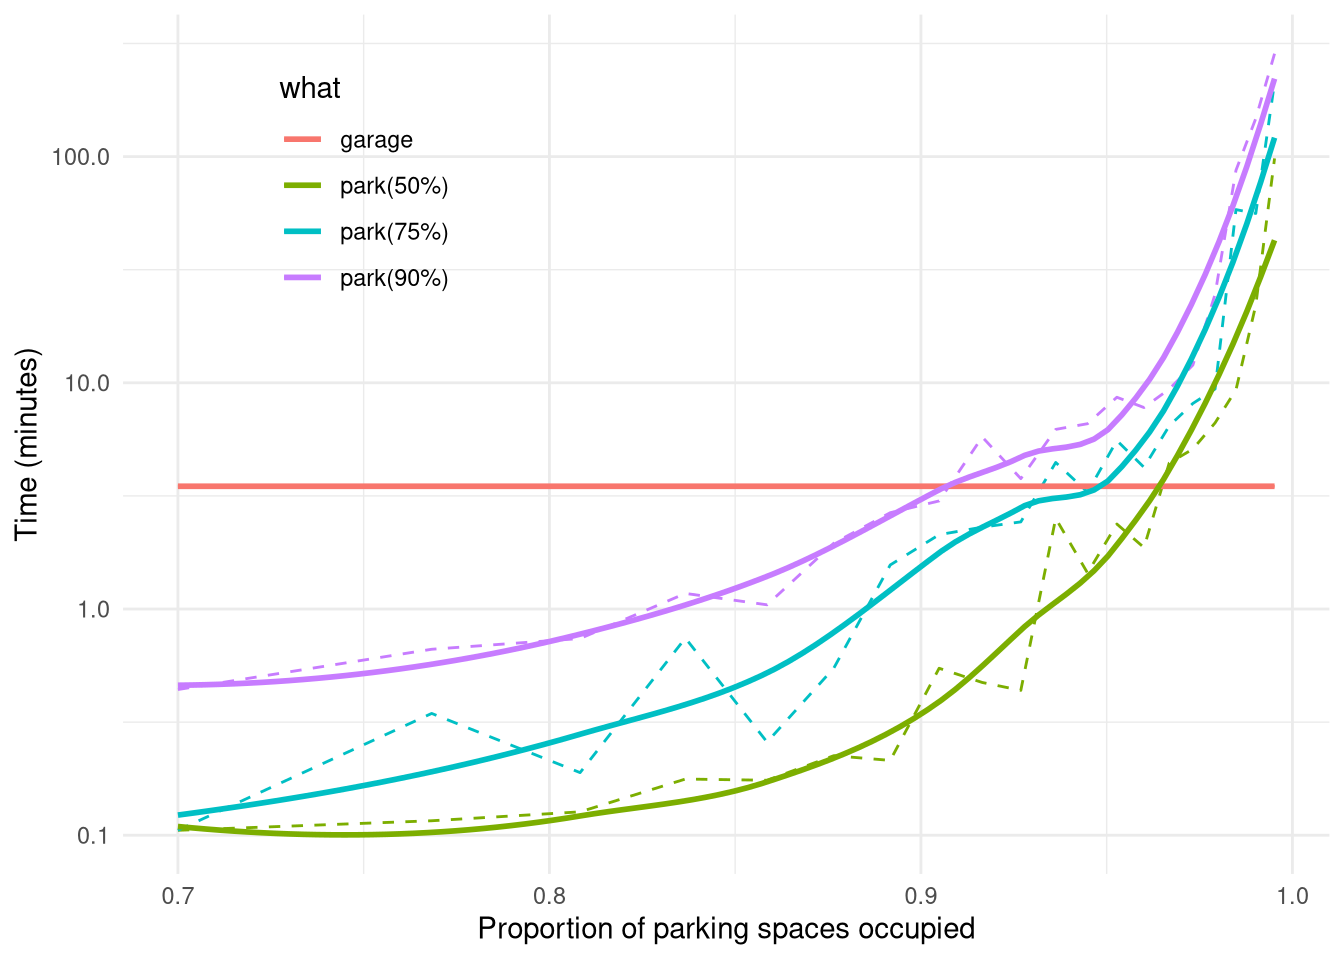
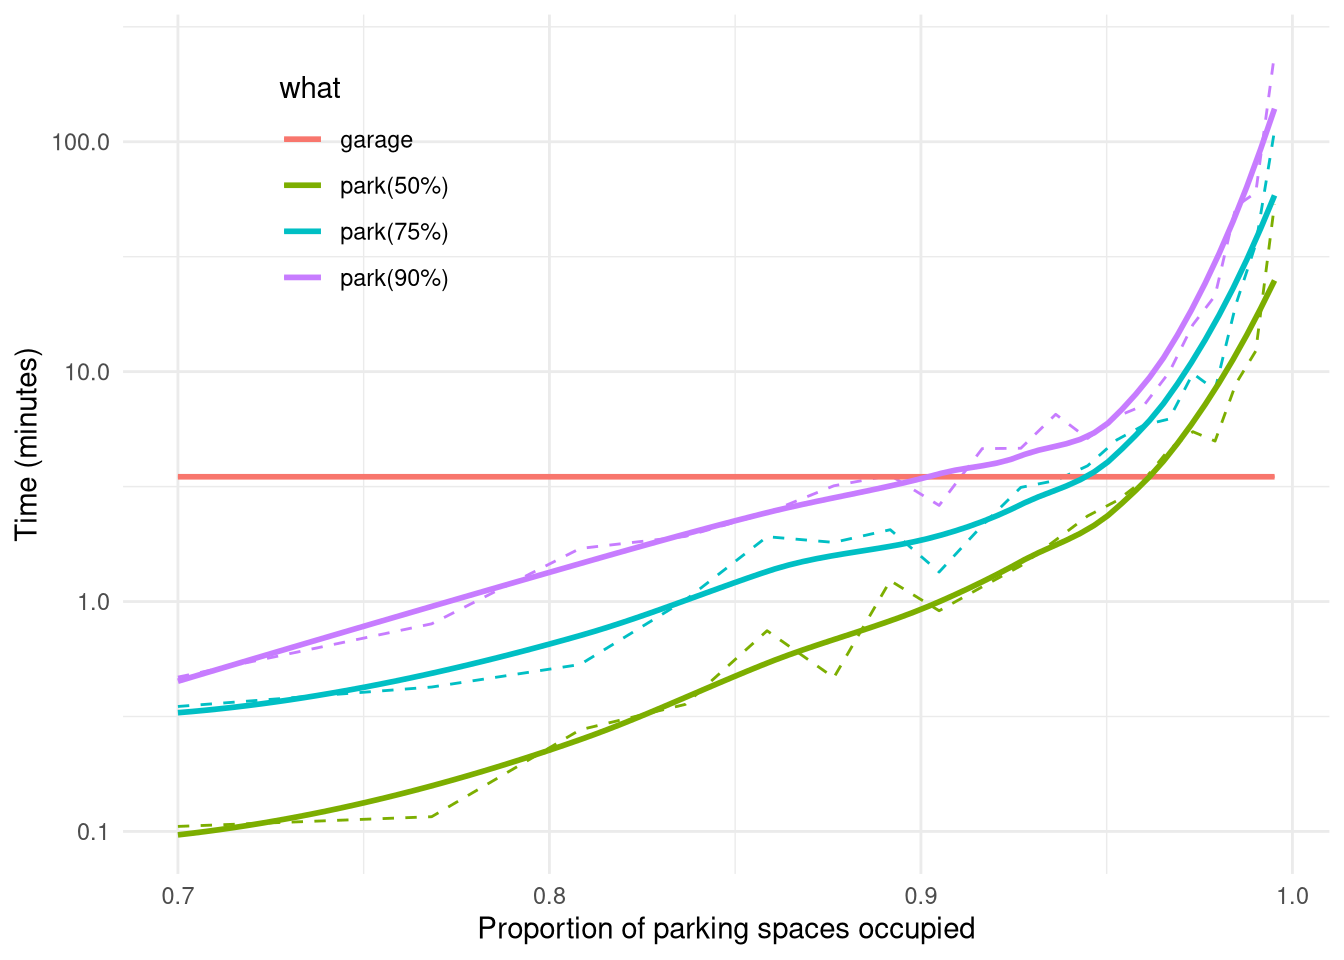
update readme

diff --git a/README.md b/README.md
@@ -7,21 +7,25 @@ coverage](https://codecov.io/gh/UrbanAnalyst/superblock/graph/badge.svg)](https:
 # superblock
 
 An R package to analyse potential
-[superblocks](https://doi.org/10.1016%2Fj.cities.2024.105609).
+[superblocks](https://doi.org/10.1016%2Fj.cities.2024.105609). The
+following example demonstrates the main functionality.
 
 ## Example
 
 An example of the “Hansaviertel” of [Münster,
-Germany](https://www.openstreetmap.org/#map=17/51.955569/7.639795).
-First load the library and extract the necessary data from Open Street
-Map (OSM):
+Germany](https://www.openstreetmap.org/#map=17/51.955569/7.639795). Note
+that this entire document is dynamically-generated from the four lines
+of code shown immediately below. All numerical values described in the
+text are then taken from the actual data as downloaded from Open Street
+Map (OSM) at the time the document was generated.
+
+The first steps are to load the library and extract the necessary data:
 
 ``` r
 library (superblock)
 bbox <- c (7.63099, 51.95048, 7.66402, 51.96142)
 hw_names <- c ("Bremer Straße", "Bremer Platz", "Wolbecker Straße", "Hansaring")
-outer <- c (T, F, T, T)
-osmdat <- sb_osmdata_extract (bbox, hw_names, outer = outer)
+osmdat <- sb_osmdata_extract (bbox, hw_names)
 ```
 
 The `sb_summary()` function then summarises change in publicly
@@ -34,10 +38,10 @@ sb_summary (osmdat)
 #> • Proportion open space: 7.36%
 #> • Proportion roads: 15.7%, of which:
 #>   • 32.5% is for car roads
-#>   • 39.9% is for parked cars, and
-#>   • 27.6% remains for everybody else.
+#>   • 39.7% is for parked cars, and
+#>   • 27.7% remains for everybody else.
 #> • There are street parking spaces for 8.6% of all residents.
-#> • So 8.6% of residents occupy 39.9% of all space
+#> • So 8.6% of residents occupy 39.7% of all space
 #> 
 #> • Total proportion of public space: 11.7
 #> • Total proportion of public space as superblock: 23.1
@@ -48,18 +52,29 @@ sb_summary (osmdat)
 
 ### Analysis of parking times
 
-There is also a function to estimate how long it takes to find car park
-as a function of the proportion of available car parking spaces. The
-results are compared to equivalent times to drive to the nearest large
-parking facility (“garage” in the graph below), to park a car, and then
-walk back to the place of residence.
+There are two additional functions to estimate how long people spend
+driving around searching for car parking spaces, and how far they
+actually drive.
+
+#### Individual times search for parking spaces
+
+The first function estimates the time taken on average for each resident
+of the superblock to find a car parking space, as a function of the
+proportion of available car parking spaces. Results are based on
+simulations using actual data for the specified superblock to estimate
+how long it takes on average to fill all of the remaining parking
+spaces.
+
+The results are compared to equivalent times to drive to the nearest
+large parking facility (“garage” in the graph below), to park a car, and
+then walk back to the place of residence.
+
+<img src="man/figures/README-parking-times-1.png" width="672" />
 
 ``` r
 times <- sb_parking_times (osmdat)
 plot (times)
 ```
-
-<img src="man/figures/README-parking-times-1.png" width="672" />
 
 The results shows how long it takes to find a parking space for an
 average attempt (“park(50%)”), for one out of every four attempts
@@ -72,3 +87,39 @@ would take on average for all residents of the area to drive directly to
 a nearby large parking facility (“garage”), park, and walk back. Beyond
 around 95% occupancy, it is always quicker to park in a garage and walk
 back.
+
+#### Total distances driven while searching for parking spaces
+
+The average times to find parking spaces shown above are only high in
+extreme cases (the 90% line), and when almost all parks are full.
+Nevertheless, most parking spaces are indeed completely full most nights
+of the week, suggesting the some people must experience these extremes
+most days. An additional function estimates the total distances driven
+by everybody while filling all parking spaces.
+
+``` r
+d <- sb_parking_km_per_empty (osmdat)
+plot (d$prop_full, d$d, type = "l", col = "red", lwd = 2,
+    xlab = "Initial proportion filled",
+    ylab = "Distance per empty car park until completely filled (in km)")
+```
+
+<img src="man/figures/README-parking-per-km-1.png" width="672" />
+
+Because filling the final few spaces takes so long, and people have to
+drive so far to fill them, the overall distance driven to fill all
+spaces is actually quite long. The block has around 620 parking spaces
+in total, so with an initial proportion filled of 70%, people have to
+drive a total of around 1km times 0.3 × 620 = 186km. While this may seem
+extreme, consider that most of this distance is covered by the last few
+people driving to find parking spaces, who are forced to drive several
+kilometres. The longest street within the block is 1.3km, while one of
+the surrounding streets is 3.0km. Ten people driving along both of those
+streets will cover 43km, which is 23% of the total distance of 186 km
+covered by that same number of drivers.
+
+Or in terms of time, if the average driving speed while searching for a
+parking space is 20km/hr, then those 186 people each take an average of
+1/20th of an hour, or only 3 minutes, to find a park, yet aggregated
+over all free parking spaces, that amounts to a total of 9.3 hours for
+everybody to fill all remaining car parks.
